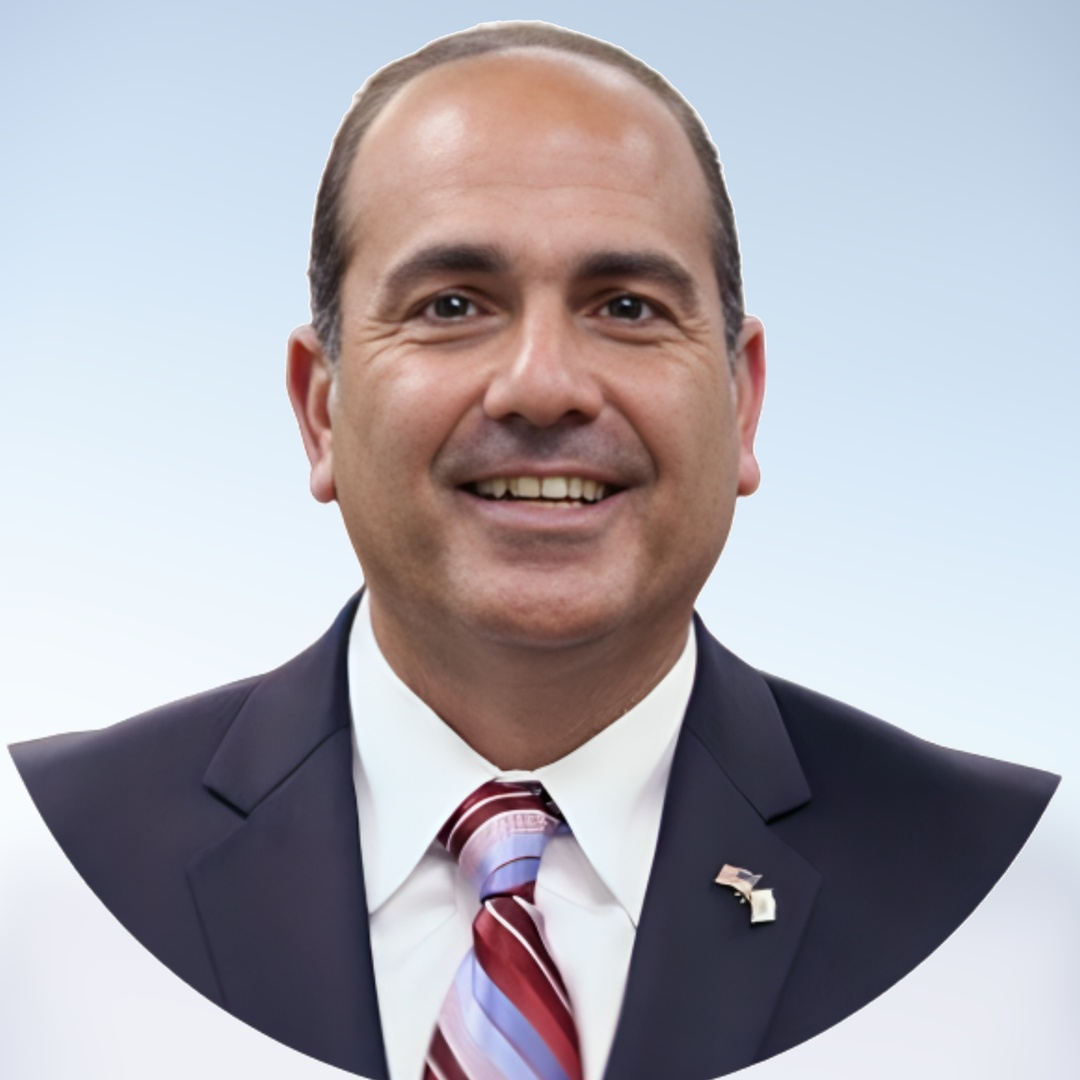
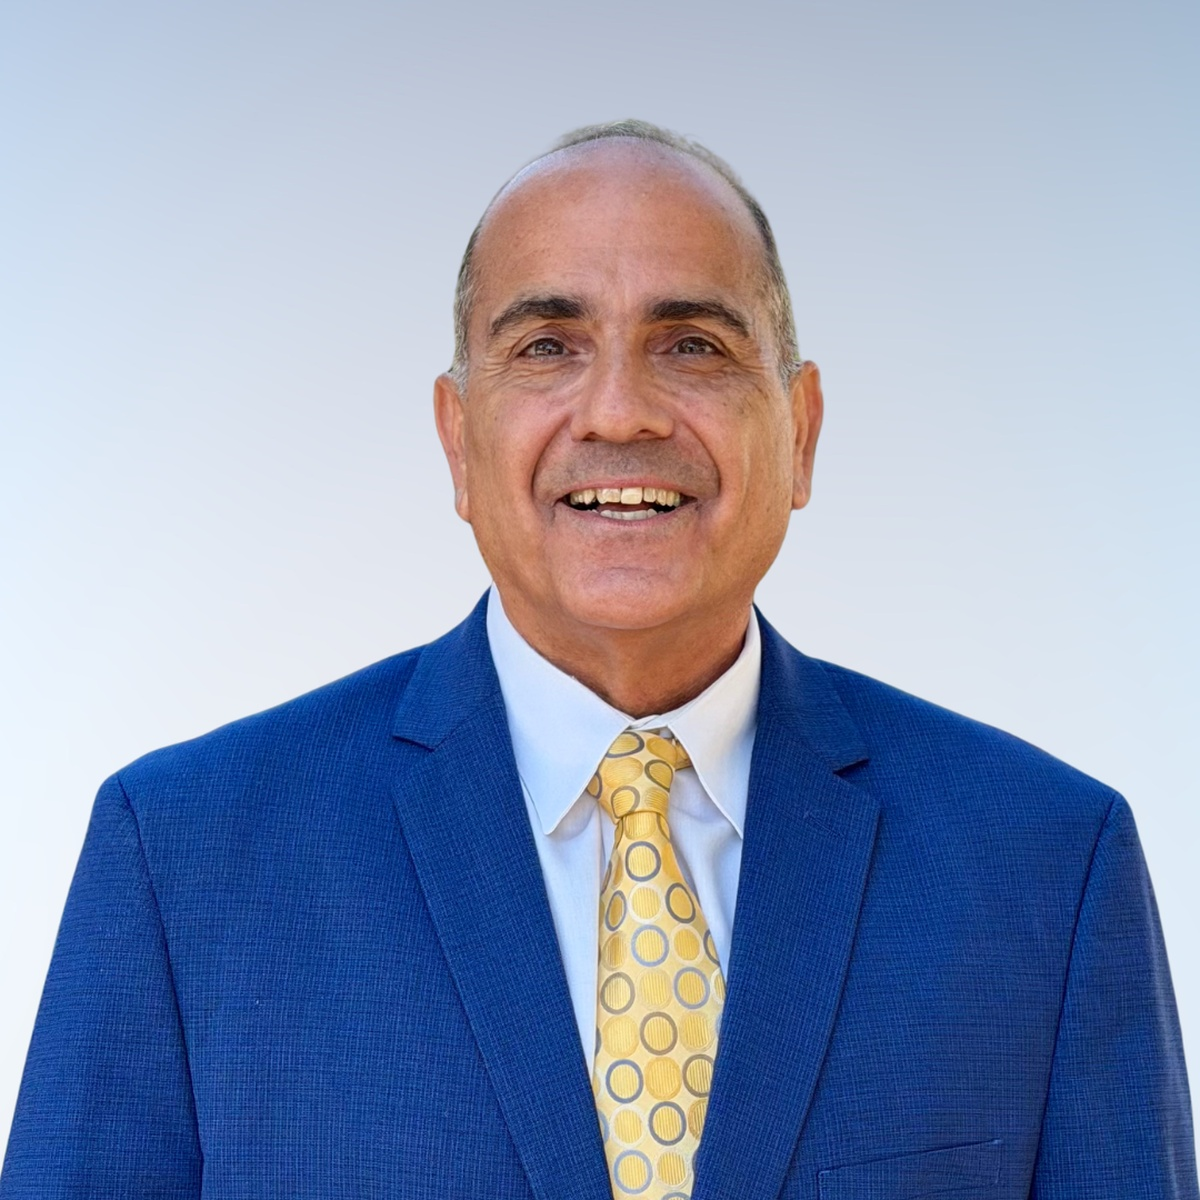
Update Greg Krikorian's photo and link his name to LinkedIn

diff --git a/css/styles.css b/css/styles.css
@@ -1083,6 +1083,7 @@ a.partner-card-logo:hover {
 }
 
 .team-card h3 { font-size: 1.05rem; margin-bottom: 0.2rem; }
+.team-card h3 a:hover { text-decoration: underline; }
 .team-card .role { font-size: 0.88rem; color: var(--ember); font-weight: 700; }
 .team-card .role.role-nowrap { font-size: 0.78rem; white-space: nowrap; }
 .team-card .placeholder-note { font-size: 0.8rem; color: var(--gray-text); margin-top: 0.5rem; font-style: italic; }

diff --git a/team.html b/team.html
@@ -254,7 +254,7 @@
           <div class="team-photo">
             <img src="assets/greg-krikorian.jpg" alt="Greg Krikorian">
           </div>
-          <h3>Greg Krikorian</h3>
+          <h3><a href="https://www.linkedin.com/in/greg-krikorian-310a8319/" target="_blank" rel="noopener">Greg Krikorian</a></h3>
           <p class="role">GUSD School Board Member</p>
         </div>
         <div class="team-card">
